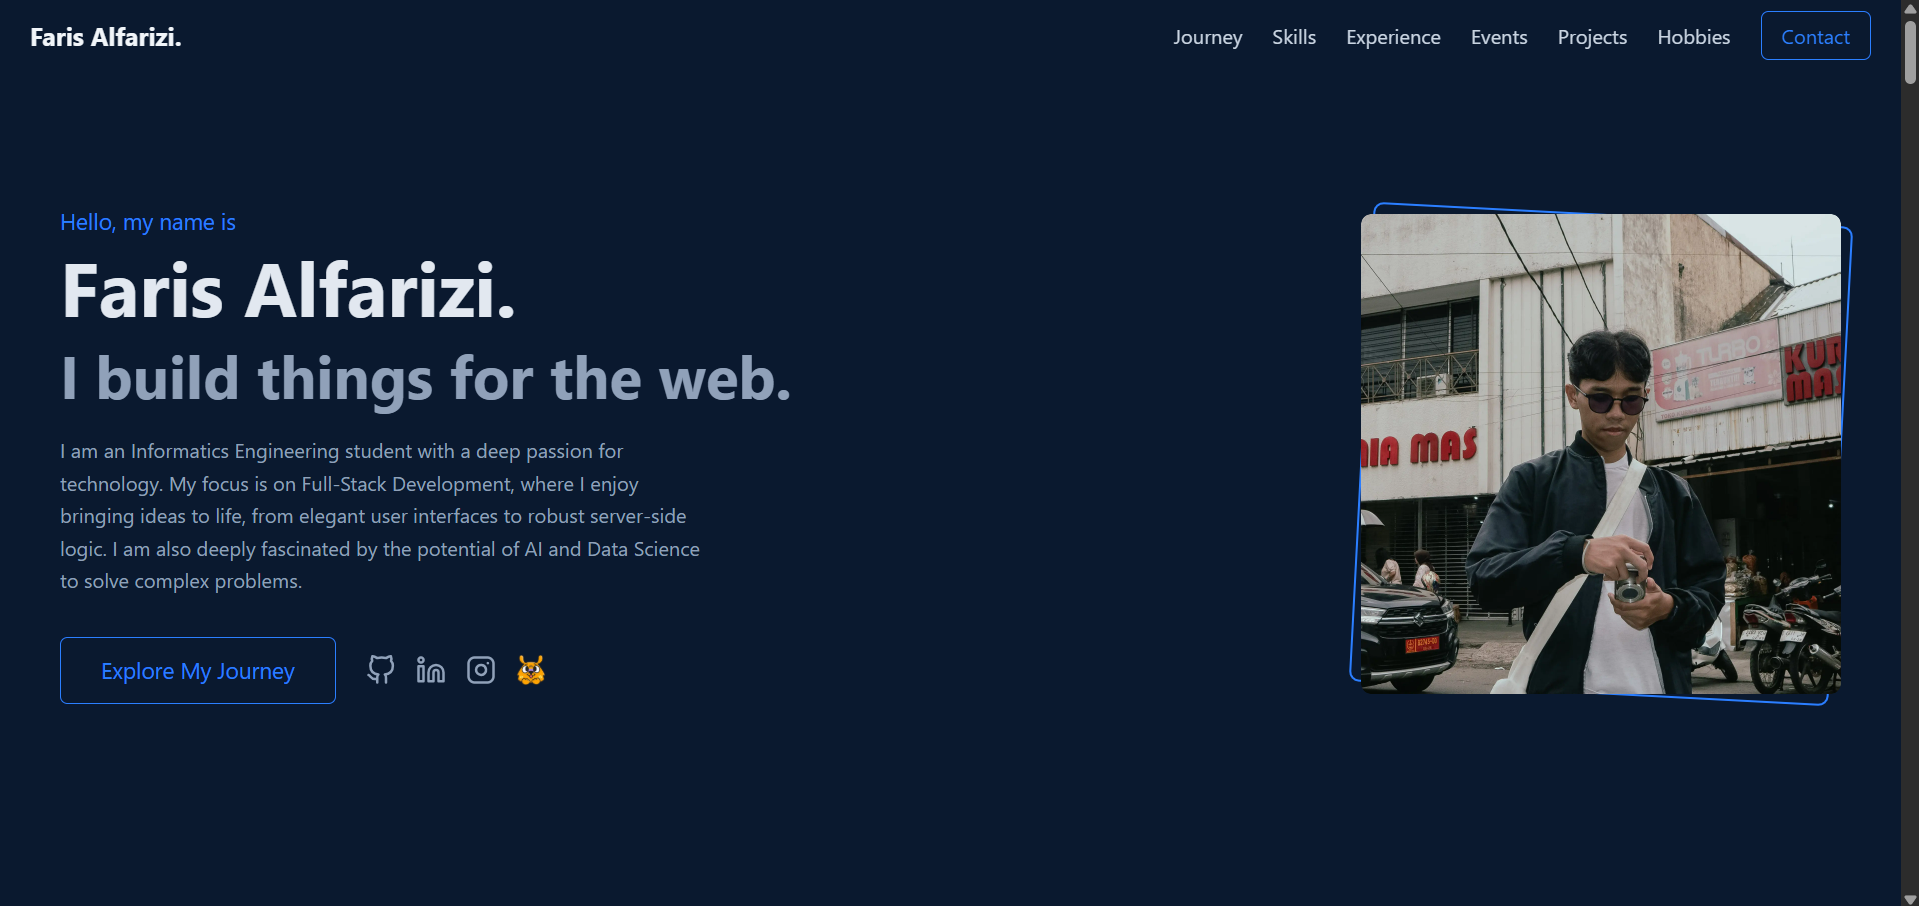
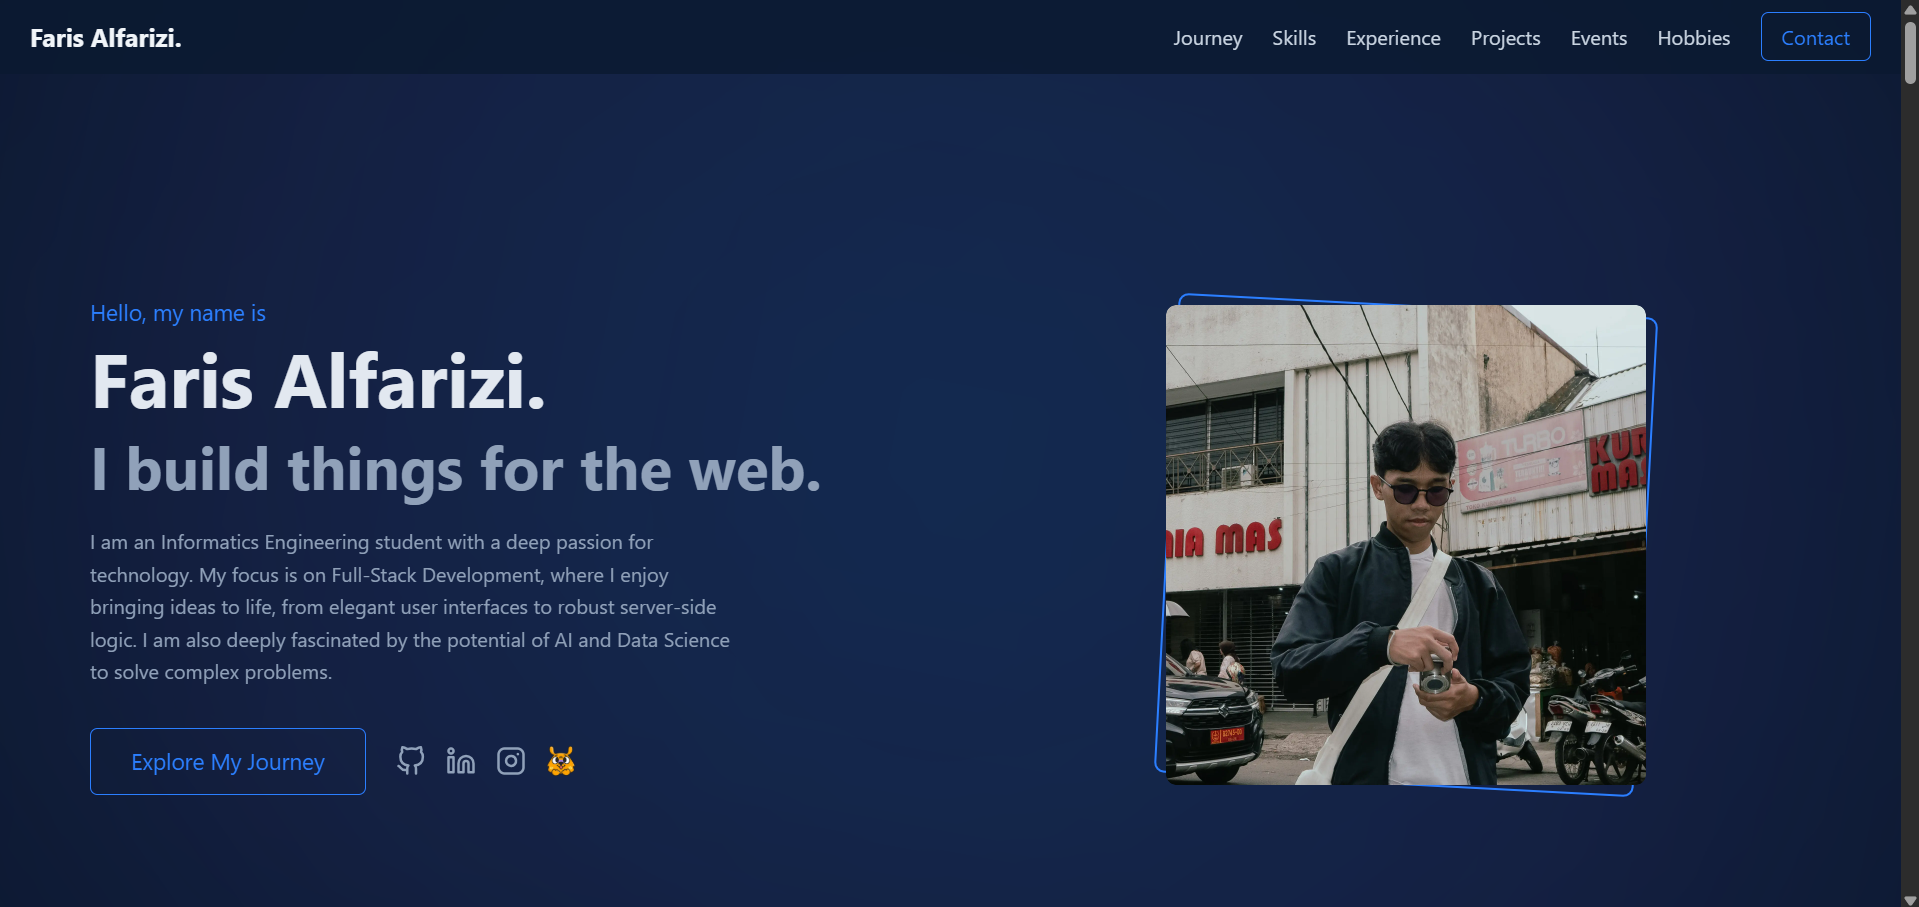
Adding aurora effect background and custom cursor

diff --git a/src/components/CustomCursor.tsx b/src/components/CustomCursor.tsx
@@ -1,0 +1,66 @@
+"use client";
+
+import React, { useState, useEffect } from "react";
+import { motion } from "framer-motion";
+import { useMousePosition } from "@/hooks/useMousePosition";
+
+const CustomCursor = () => {
+  const { x, y } = useMousePosition();
+  const [cursorVariant, setCursorVariant] = useState("default");
+
+  useEffect(() => {
+    const mouseEnterHandler = (e: MouseEvent) => {
+      if (e.target instanceof HTMLElement) {
+        if (
+          e.target.tagName === "A" ||
+          e.target.tagName === "BUTTON" ||
+          e.target.closest('[role="button"]')
+        ) {
+          setCursorVariant("interactive");
+        }
+      }
+    };
+    const mouseLeaveHandler = () => {
+      setCursorVariant("default");
+    };
+    document.addEventListener("mouseover", mouseEnterHandler);
+    document.addEventListener("mouseout", mouseLeaveHandler);
+    return () => {
+      document.removeEventListener("mouseover", mouseEnterHandler);
+      document.removeEventListener("mouseout", mouseLeaveHandler);
+    };
+  }, []);
+
+  const variants = {
+    default: {
+      x: x - 10,
+      y: y - 10,
+      height: 20,
+      width: 20,
+      backgroundColor: "rgba(59, 130, 246, 0.5)",
+      mixBlendMode: "difference",
+      boxShadow: "0 0 10px rgba(59, 130, 246, 0.8)",
+    },
+    interactive: {
+      x: x - 20,
+      y: y - 20,
+      height: 40,
+      width: 40,
+      backgroundColor: "rgba(255, 255, 255, 0)", 
+      border: "2px solid #3b82f6", 
+      mixBlendMode: "normal", 
+      boxShadow: "0 0 10px rgba(59, 130, 246, 0.5)", 
+    },
+  };
+
+  return (
+    <motion.div
+      className="fixed top-0 left-0 rounded-full z-[9999] pointer-events-none"
+      variants={variants}
+      animate={cursorVariant}
+      transition={{ type: "spring", stiffness: 1000, damping: 40 }}
+    />
+  );
+};
+
+export default CustomCursor;

diff --git a/src/app/globals.css b/src/app/globals.css
@@ -1,5 +1,39 @@
 @import "tailwindcss";
 
+.aurora-background {
+  position: fixed;
+  top: 50%;
+  left: 50%;
+  transform: translate(-50%, -50%);
+  width: 150vw;
+  height: 150vh;
+  background: radial-gradient(circle, rgba(59, 130, 246, 0.3) 0%, rgba(139, 92, 246, 0.15) 50%, rgba(10, 25, 47, 0) 70%);
+  filter: blur(120px);
+  opacity: 0.6; 
+  animation: aurora-move 30s ease-in-out infinite; 
+  z-index: -10;
+}
+
+@keyframes aurora-move {
+  0% {
+    transform: translate(-50%, -50%) rotate(0deg) scale(1);
+  }
+  50% {
+    transform: translate(-45%, -55%) rotate(180deg) scale(1.2);
+  }
+  100% {
+    transform: translate(-50%, -50%) rotate(360deg) scale(1);
+  }
+}
+
+body {
+  cursor: none;
+}
+
+a, button, [role="button"], input, textarea {
+  cursor: none;
+}
+
 html {
   scroll-behavior: smooth;
 }

diff --git a/src/app/layout.tsx b/src/app/layout.tsx
@@ -1,6 +1,7 @@
 import type { Metadata } from "next";
 import { Geist, Geist_Mono } from "next/font/google";
 import "./globals.css";
+import CustomCursor from '@/components/CustomCursor';
 
 const geistSans = Geist({
   variable: "--font-geist-sans",
@@ -27,6 +28,8 @@ export default function RootLayout({
       <body
         className={`${geistSans.variable} ${geistMono.variable} antialiased`}
       >
+        <CustomCursor />
+        <div className="aurora-background"></div>
         {children}
       </body>
     </html>

diff --git a/src/hooks/useMousePosition.ts b/src/hooks/useMousePosition.ts
@@ -1,0 +1,21 @@
+"use client";
+
+import { useState, useEffect } from 'react';
+
+export const useMousePosition = () => {
+  const [position, setPosition] = useState({ x: 0, y: 0 });
+
+  useEffect(() => {
+    const updatePosition = (e: MouseEvent) => {
+      setPosition({ x: e.clientX, y: e.clientY });
+    };
+
+    window.addEventListener('mousemove', updatePosition);
+
+    return () => {
+      window.removeEventListener('mousemove', updatePosition);
+    };
+  }, []);
+
+  return position;
+};
